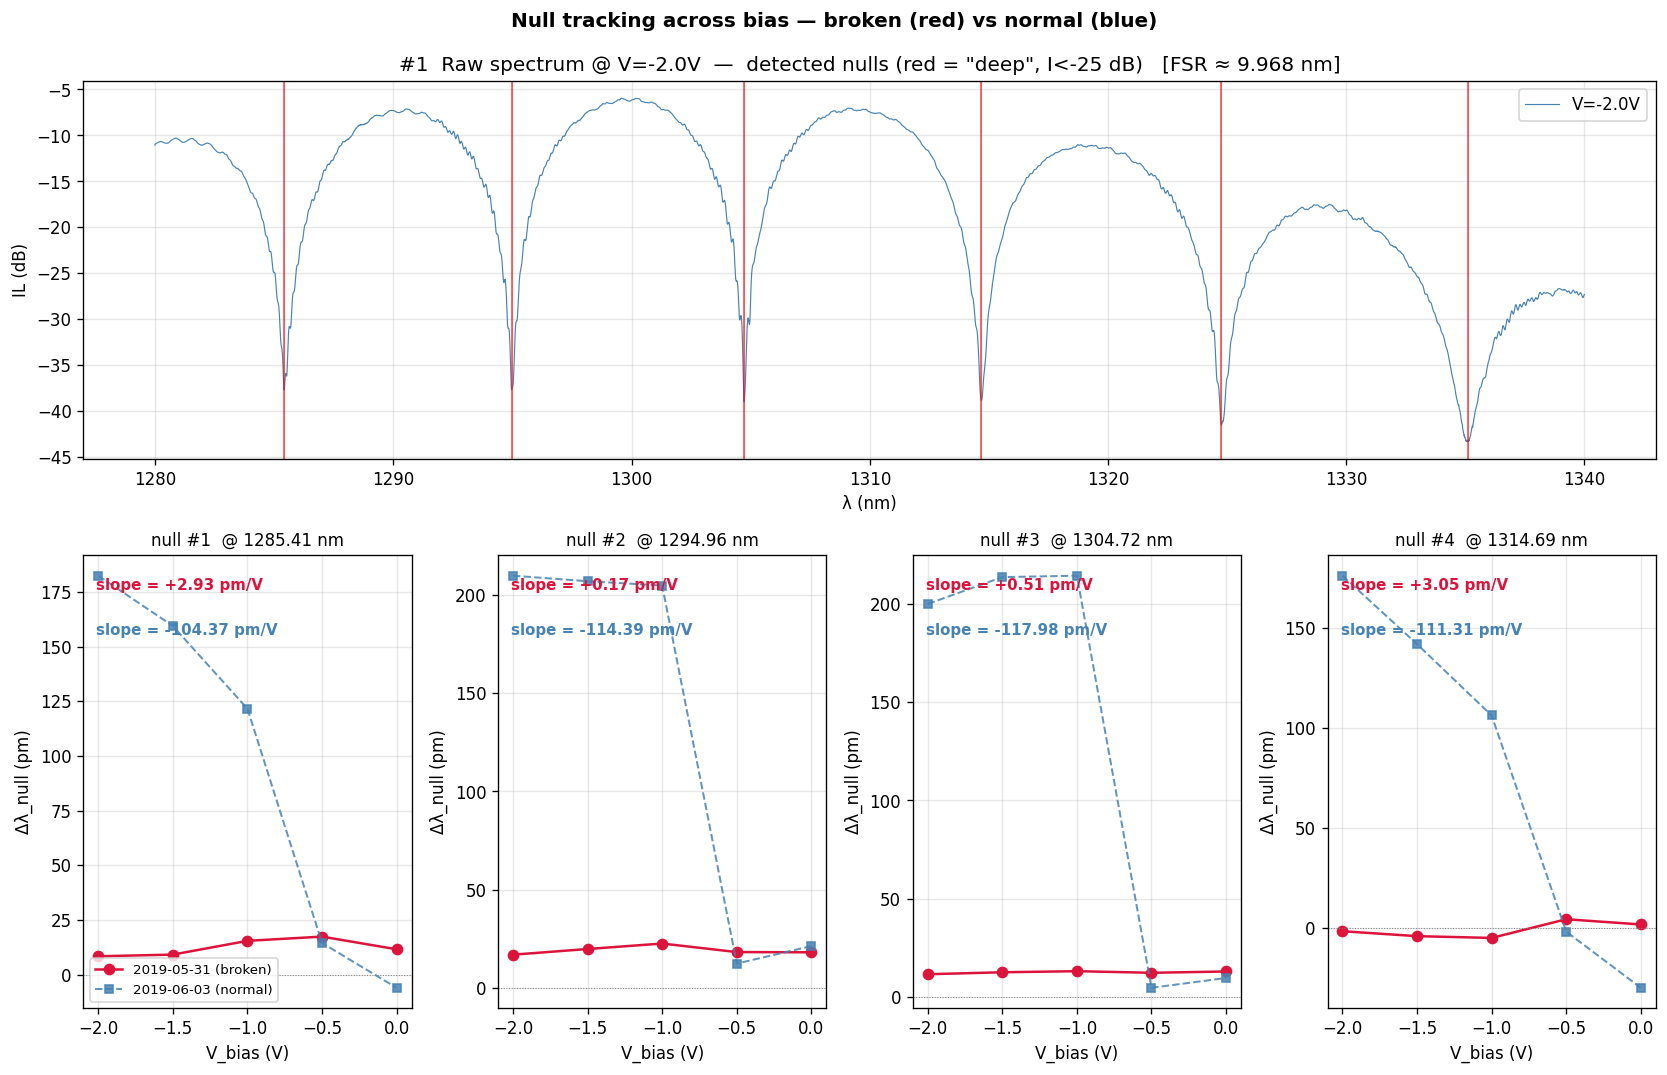
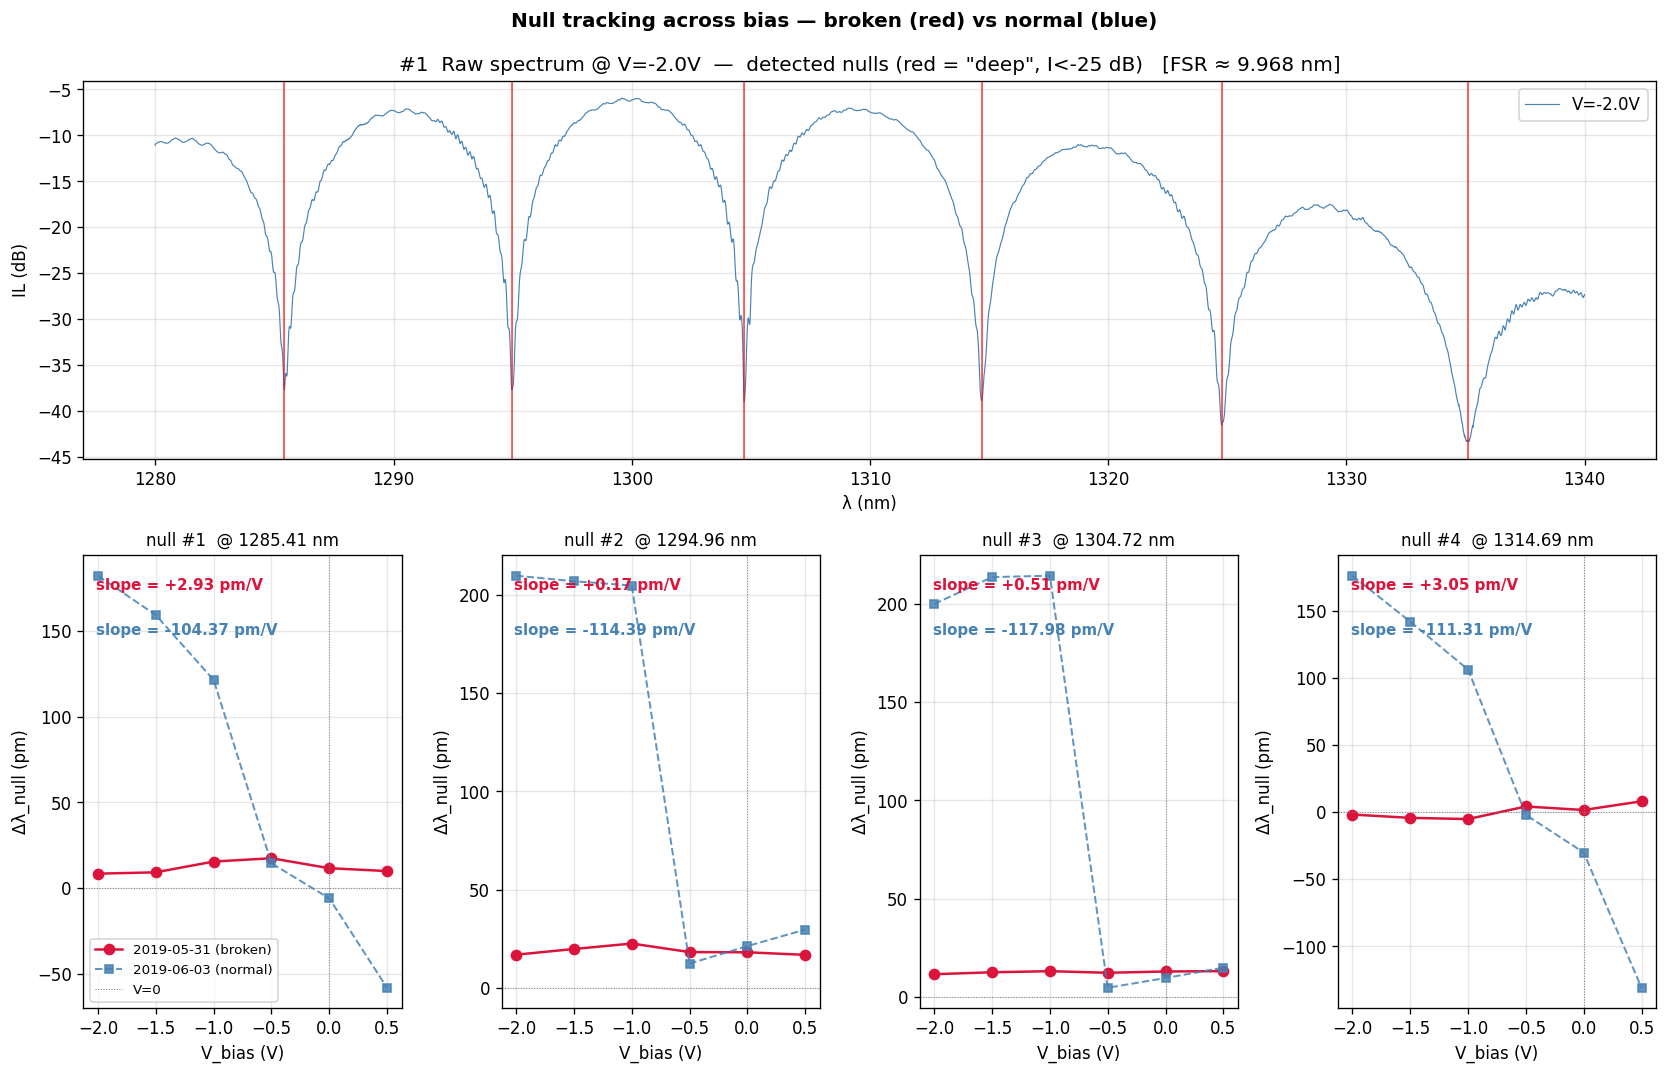
Fix IV sign convention; add forward bias to diagnosis plot
- IV: HY202103 측정 장비가 forward I 를 음수로 출력 → 부호 뒤집어 표준 컨벤션
  D07/D08 의 정상 PN 거동 (rectification 10^5~10^7) 이 이제 명확히 보임
- diagnosis: rev_biases 만 보던 것을 all_biases (forward 포함) 로 확장
  V>0 에서도 Δλ 가 monotonic 하게 멀어지는 거동 확인 가능
- dlam_dv map: 숫자 라벨 흰 배경으로 추가 (가독성)

diff --git a/src/investigate.py b/src/investigate.py
@@ -102,7 +102,9 @@ def investigate_05_31():
     ax_top.legend(); ax_top.grid(alpha=0.3)
 
     # ── 하단: null 별 개별 패널 (Δλ 로 표시, 정상 ref overlay) ──
+    # 모든 바이어스 포함 (forward 도) 해서 거동 전체 보기
     half = min(0.4, fsr * 0.35) if not np.isnan(fsr) else 0.4
+    all_biases = sorted(sweeps.keys())   # forward 포함
 
     for i in range(n_nulls_show):
         ax = fig.add_subplot(gs[1, i])
@@ -110,40 +112,48 @@ def investigate_05_31():
             ax.axis('off'); continue
         lam0 = deep_lams[i]
 
-        # 망가진 측정 (현재 die)
+        # 망가진 측정 (모든 바이어스)
         positions = np.array([_parabolic_null(*sweeps[v], lam0, half)
-                              for v in rev_biases])
+                              for v in all_biases])
         valid = ~np.isnan(positions)
         if valid.sum() >= 2:
-            d_lam_pm = (positions - lam0) * 1000   # nm → pm
-            vb = np.array(rev_biases)
+            d_lam_pm = (positions - lam0) * 1000
+            vb = np.array(all_biases)
             ax.plot(vb[valid], d_lam_pm[valid], 'o-', color='crimson',
                     ms=6, lw=1.5, label='2019-05-31 (broken)')
-            # 선형 fit slope
-            s, _ = np.polyfit(vb[valid], positions[valid], 1)
-            ax.text(0.04, 0.95, f'slope = {s*1000:+.2f} pm/V',
-                    transform=ax.transAxes, va='top',
-                    color='crimson', fontsize=9, fontweight='bold')
+            # slope fit (reverse 만)
+            rev_only = vb <= 0
+            both = valid & rev_only
+            if both.sum() >= 2:
+                s, _ = np.polyfit(vb[both], positions[both], 1)
+                ax.text(0.04, 0.95, f'slope = {s*1000:+.2f} pm/V',
+                        transform=ax.transAxes, va='top',
+                        color='crimson', fontsize=9, fontweight='bold')
 
-        # 정상 측정 (가능하면 overlay)
+        # 정상 측정 (모든 바이어스 포함)
         if normal_target is not None:
             n_sweeps = normal_target['sweeps']
-            n_rev = sorted([v for v in n_sweeps if v <= 0.0])
+            n_all = sorted(n_sweeps.keys())
             n_positions = np.array([_parabolic_null(*n_sweeps[v], lam0, half)
-                                    for v in n_rev])
+                                    for v in n_all])
             n_valid = ~np.isnan(n_positions)
             if n_valid.sum() >= 2:
                 d_pm = (n_positions - lam0) * 1000
-                ax.plot(np.array(n_rev)[n_valid], d_pm[n_valid], 's--',
+                ax.plot(np.array(n_all)[n_valid], d_pm[n_valid], 's--',
                         color='steelblue', ms=5, lw=1.2, alpha=0.85,
                         label='2019-06-03 (normal)')
-                s2, _ = np.polyfit(np.array(n_rev)[n_valid],
-                                    n_positions[n_valid], 1)
-                ax.text(0.04, 0.85, f'slope = {s2*1000:+.2f} pm/V',
-                        transform=ax.transAxes, va='top',
-                        color='steelblue', fontsize=9, fontweight='bold')
+                nrev = np.array(n_all) <= 0
+                both = n_valid & nrev
+                if both.sum() >= 2:
+                    s2, _ = np.polyfit(np.array(n_all)[both],
+                                       n_positions[both], 1)
+                    ax.text(0.04, 0.85, f'slope = {s2*1000:+.2f} pm/V',
+                            transform=ax.transAxes, va='top',
+                            color='steelblue', fontsize=9, fontweight='bold')
 
         ax.axhline(0, color='gray', lw=0.6, ls=':')
+        ax.axvline(0, color='gray', lw=0.6, ls=':',
+                   label='V=0' if i == 0 else None)
         ax.set_xlabel('V_bias (V)'); ax.set_ylabel('Δλ_null (pm)')
         ax.set_title(f'null #{i+1}  @ {lam0:.2f} nm', fontsize=10)
         ax.grid(alpha=0.3)
@@ -343,7 +353,7 @@ def investigate_er_window():
 #  #7 — IV 곡선 시각화
 # ──────────────────────────────────────────────────────────────────────
 def investigate_iv():
-    hdr('#7  IV 곡선 시각화 (semi-log)')
+    hdr('#7  IV 곡선 시각화 (semi-log, 부호 컨벤션 정정)')
     items = find_all_xmls_with_dates(DATA_ROOT)
     # 한 wafer 의 다이 4개 IV 곡선
     targets = []
@@ -358,7 +368,7 @@ def investigate_iv():
                              figsize=(4.0 * len(targets), 7), dpi=120,
                              squeeze=False)
     fig.suptitle('#7  IV curves — linear (top) and |I| log (bottom)\n'
-                 'reverse bias V<0: near-linear / forward V>0: exponential',
+                 'sign flipped so forward (V>0) → I>0 (standard convention)',
                  fontsize=12, fontweight='bold', y=0.995)
 
     for col_idx, (w, fp) in enumerate(targets):
@@ -367,58 +377,68 @@ def investigate_iv():
             for r in range(2):
                 axes[r][col_idx].set_title(f'{w}: no IV'); axes[r][col_idx].axis('off')
             continue
-        V, I = die['iv_V'], die['iv_I']
+        V = die['iv_V']
+        # ⚠️ HY202103 측정 장비는 forward I 를 음수로 출력 → 부호 뒤집어 표준 컨벤션으로
+        I = -die['iv_I']
 
-        # 진단 통계
+        # 진단 통계 (표준 컨벤션 기준)
         I_at_neg2 = float(np.interp(-2.0, V, I)) if V.min() <= -2 else float('nan')
         I_at_pos05 = float(np.interp(0.5, V, I)) if V.max() >= 0.5 else float('nan')
+        I_at_pos1 = float(np.interp(1.0, V, I)) if V.max() >= 1.0 else float('nan')
 
-        # 상단: 선형 (단위 자동 결정 — μA 또는 mA)
+        # 상단: 선형 (단위 자동)
         max_abs = float(np.max(np.abs(I)))
-        if max_abs < 1e-3:   # < 1 mA → μA 표시
-            unit_scale, unit_label = 1e6, 'I (μA)'
+        if max_abs < 1e-6:
+            unit_scale, unit_label, fmt = 1e9, 'I (nA)', '.2f'
+        elif max_abs < 1e-3:
+            unit_scale, unit_label, fmt = 1e6, 'I (μA)', '.3f'
         else:
-            unit_scale, unit_label = 1e3, 'I (mA)'
+            unit_scale, unit_label, fmt = 1e3, 'I (mA)', '.2f'
         ax = axes[0][col_idx]
-        ax.plot(V, I * unit_scale, '-o', ms=3, lw=1, color='steelblue')
+        ax.plot(V, I * unit_scale, '-o', ms=4, lw=1.2, color='steelblue')
         ax.axhline(0, color='gray', lw=0.5); ax.axvline(0, color='gray', lw=0.5)
         ax.set_xlabel('V (V)'); ax.set_ylabel(unit_label)
         ax.set_title(f'{w}  ({die["band"]}-band, R={die["row"]} C={die["col"]})',
                      fontsize=10, fontweight='bold')
         ax.grid(alpha=0.3)
         ax.text(0.04, 0.95,
-                f'I @ -2V: {I_at_neg2*1e9:.2f} nA\n'
-                f'I @ +0.5V: {I_at_pos05*unit_scale:.2f} {unit_label[-3:-1]}',
-                transform=ax.transAxes, va='top', fontsize=9,
+                f'I@-2V:  {I_at_neg2*1e9:+.2f} nA\n'
+                f'I@+0.5V: {I_at_pos05*1e9:+.2g} nA\n'
+                f'I@+1V:   {I_at_pos1*1e3:+.3g} mA',
+                transform=ax.transAxes, va='top', fontsize=8, family='monospace',
                 bbox=dict(facecolor='white', alpha=0.85))
 
-        # 하단: |I| log
+        # 하단: |I| log + reverse / forward 색 구분
         ax = axes[1][col_idx]
         I_abs = np.abs(I)
-        # 0 이나 매우 작은 값 floor 처리
-        floor = max(1e-12, I_abs[I_abs > 0].min() if (I_abs > 0).any() else 1e-12)
+        floor = max(1e-13, I_abs[I_abs > 0].min() if (I_abs > 0).any() else 1e-13)
         I_clip = np.clip(I_abs, floor, None)
-        # 역바이어스(V<0) 빨강, 순방향(V>=0) 파랑
         rev_mask = V < 0
         fwd_mask = V >= 0
         ax.semilogy(V[rev_mask], I_clip[rev_mask], 'o-', color='crimson',
-                    ms=4, lw=1, label='reverse (V<0)')
+                    ms=5, lw=1.2, label='reverse (V<0)')
         ax.semilogy(V[fwd_mask], I_clip[fwd_mask], 's-', color='steelblue',
-                    ms=4, lw=1, label='forward (V≥0)')
+                    ms=5, lw=1.2, label='forward (V≥0)')
         ax.axvline(0, color='gray', lw=0.5)
         ax.set_xlabel('V (V)'); ax.set_ylabel('|I| (A, log)')
         ax.grid(alpha=0.3, which='both')
         ax.legend(fontsize=8, loc='lower right')
-        # forward 영역의 기대 기울기 (이상적: q/kT ≈ 38.9 /V at 300K)
-        # 즉 log10(I) 가 V 당 약 +16.9 (이상계수 n=1, kT/q=25.85mV)
-        # 우리 데이터에서 fit slope 계산
-        if fwd_mask.sum() >= 2 and (I_clip[fwd_mask] > floor * 10).any():
+
+        # forward 기울기 fit (V>0.3V 이상에서, conduction 영역)
+        # 이상적 Si 다이오드: ~16.9 dec/V (n=1, kT/q=25.85mV at 300K)
+        cond_mask = (V >= 0.3) & (I_clip > floor * 10)
+        if cond_mask.sum() >= 2:
             try:
-                slope_log10 = np.polyfit(V[fwd_mask], np.log10(I_clip[fwd_mask]), 1)[0]
+                slope_log10 = np.polyfit(V[cond_mask], np.log10(I_clip[cond_mask]), 1)[0]
+                # ideality factor: n = (1/Vt) / (slope·ln10)
+                # Vt = kT/q ≈ 0.02585 V at 300K
+                ideality = 1 / (slope_log10 * np.log(10) * 0.02585)
                 ax.text(0.04, 0.95,
-                        f'fwd slope ≈ {slope_log10:.1f} dec/V\n'
-                        f'(ideal Si: ~16.9)',
-                        transform=ax.transAxes, va='top', fontsize=9,
+                        f'fwd slope: {slope_log10:.1f} dec/V\n'
+                        f'ideality n ≈ {ideality:.2f}\n'
+                        f'(ideal: ~16.9, n=1)',
+                        transform=ax.transAxes, va='top', fontsize=8,
+                        family='monospace',
                         bbox=dict(facecolor='white', alpha=0.85))
             except Exception:
                 pass
@@ -429,17 +449,21 @@ def investigate_iv():
     plt.close(fig)
     print(f'그림 저장: {out_path}')
 
-    # 진단: 누설전류 / forward 기울기 통계
-    print('\n[다이별 IV 진단 — 처음 한 다이씩만]')
+    # 진단
+    print('\n[다이별 IV 진단 (부호 정정 후, 표준 컨벤션)]')
     for w, fp in targets:
         die = load_die(fp)
         if die is None or die['iv_V'] is None: continue
-        V, I = die['iv_V'], die['iv_I']
-        I_neg2 = float(np.interp(-2.0, V, I)) if V.min() <= -2 else float('nan')
-        I_pos05 = float(np.interp(0.5, V, I)) if V.max() >= 0.5 else float('nan')
-        print(f'  {w}: I@-2V={I_neg2*1e9:+8.2f} nA, '
-              f'I@+0.5V={I_pos05*1e6:+8.2f} μA  '
-              f'(ratio={abs(I_pos05/I_neg2):.0e} if linear scale)')
+        V = die['iv_V']
+        I = -die['iv_I']
+        I_neg2 = float(np.interp(-2.0, V, I))
+        I_pos05 = float(np.interp(0.5, V, I))
+        I_pos1 = float(np.interp(1.0, V, I))
+        diode_ratio = abs(I_pos1) / abs(I_neg2) if I_neg2 != 0 else float('inf')
+        print(f'  {w}: '
+              f'I@-2V (역누설)={I_neg2*1e9:+8.2f} nA, '
+              f'I@+1V (forward)={I_pos1*1e3:+9.3g} mA, '
+              f'rectification ratio = {diode_ratio:.1e}')
 
 
 # ──────────────────────────────────────────────────────────────────────
@@ -533,7 +557,8 @@ def investigate_dlam_map():
     for ax, (w, b) in zip(axes, pairs):
         sub = df[(df['Wafer'] == w) & (df['Band'] == b)]
         tcf = _contour_map_panel(ax, sub, 'dlam_dV_pm_per_V', (vmin, vmax),
-                                 cmap=cmap, show_numbers=False)
+                                 cmap=cmap, show_numbers=True,
+                                 number_fmt='+.0f')
         if tcf is not None: last = tcf
         ax.set_title(f'{w} [{b}-band]\n'
                      f'mean = {sub["dlam_dV_pm_per_V"].mean():+.1f} pm/V',